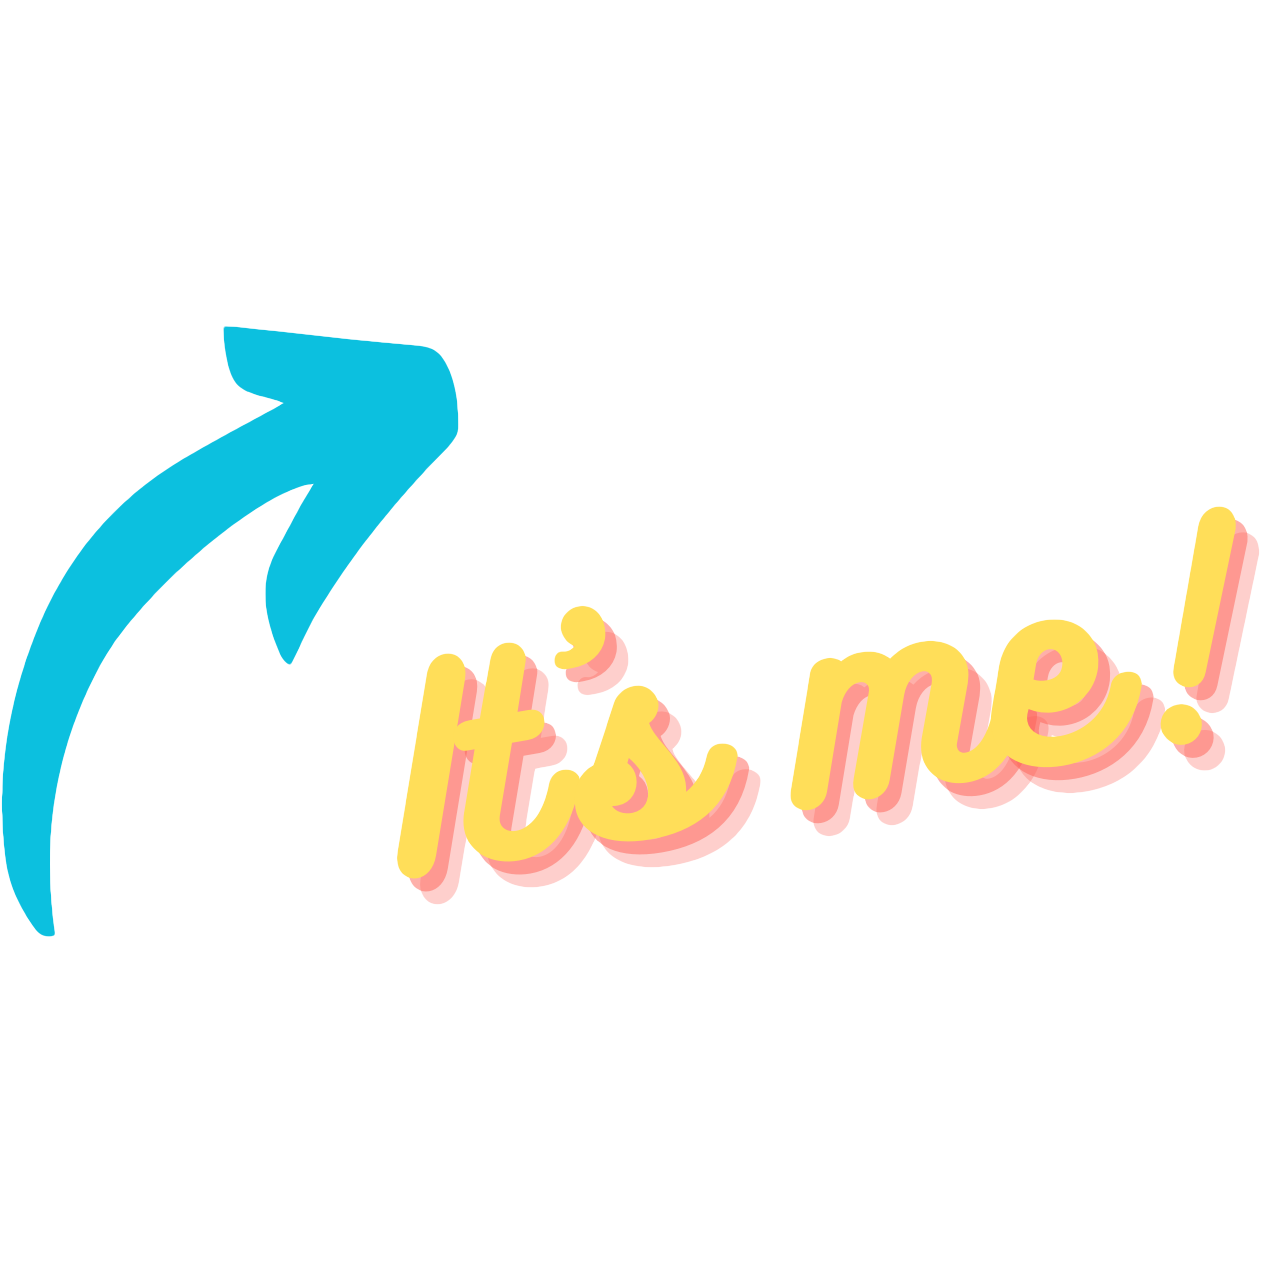
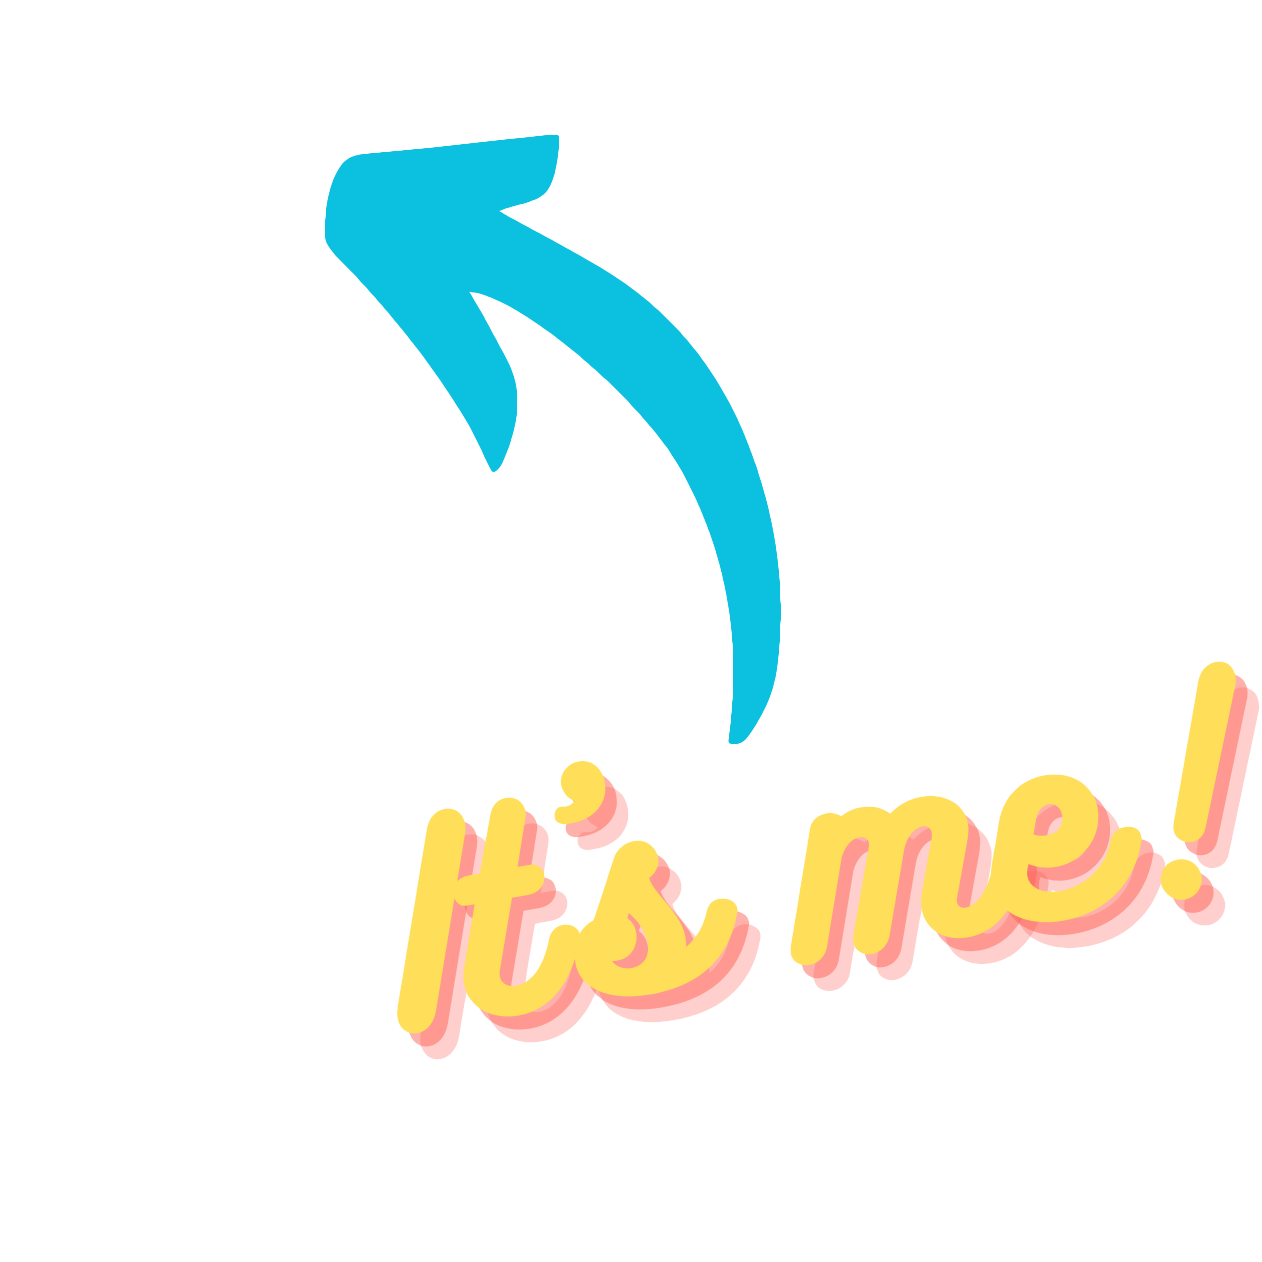
位置修正。

Changed region(s): [[0.0, 0.0927, 1.0, 0.8344]]

diff --git a/index.html b/index.html
@@ -13,7 +13,7 @@
       <a-marker type="pattern" url="pattern-marker.patt">
         <a-image
           id="ar-image1"
-          position="3 0 -1"
+          position="2 0 -1.2"
           width="2"
           height="2"
           rotation="-90 0 0"
@@ -24,13 +24,13 @@
         </a-image>
         <a-image
           id="profile"
-          position="8 0.3 -2.1"
+          position="8 0.3 -2.7"
           width="2"
           height="2"
           rotation="-90 0 0"
           opacity="0"
           animation__opacity="property: material.opacity; delay:1500; from:0; to: 1; dur: 500;"
-          animation__position="property: position; easing: easeInSine;  delay:1500; to: 3.6 0.3 -2.1; dur: 500;"
+          animation__position="property: position; easing: easeInSine;  delay:1500; to: 1 0.3 -2.7; dur: 500;"
           src="./img/profile.png"
         >
         </a-image>
